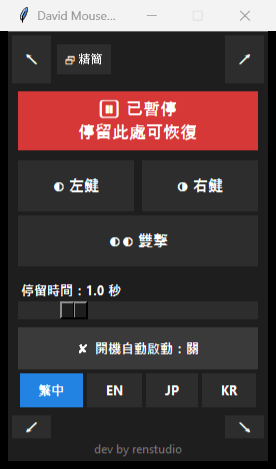
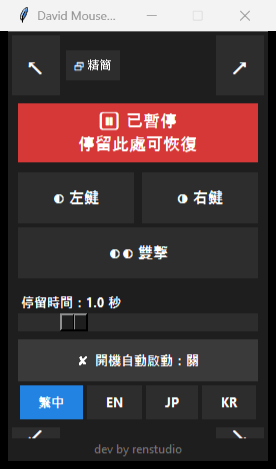
fix(ui): use Segoe UI Symbol 18pt for corner arrows
The default ("Segoe UI", 14, "bold") font rendered the ↖↗↙↘
arrows as ambiguous diagonal slashes — the arrowhead detail was
lost at that size + weight, especially in screenshots. Switching
to Segoe UI Symbol (a font built for symbol glyphs) at 18pt gives
clearly recognizable arrows in both the live app and the captures.

Regenerated docs/screenshots/* with the new font.

diff --git a/src/ui.py b/src/ui.py
@@ -27,7 +27,7 @@ FONT_LARGE = ("Segoe UI", 11, "bold")
 FONT_MEDIUM = ("Segoe UI", 10, "bold")
 FONT_SMALL = ("Segoe UI", 9)
 FONT_HUGE = ("Segoe UI", 13, "bold")
-FONT_ARROW = ("Segoe UI", 14, "bold")
+FONT_ARROW = ("Segoe UI Symbol", 18, "bold")
 
 
 class UI:
